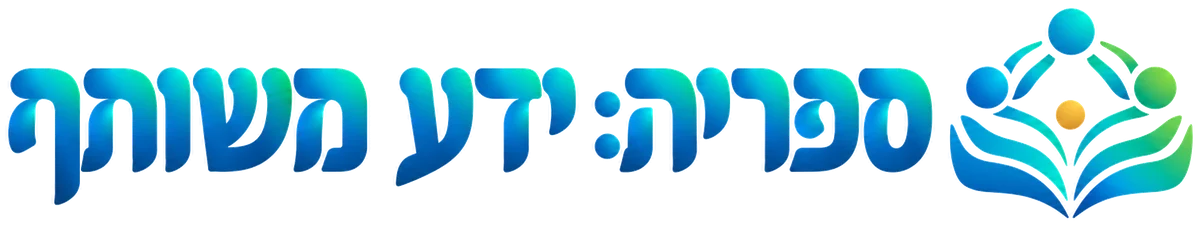
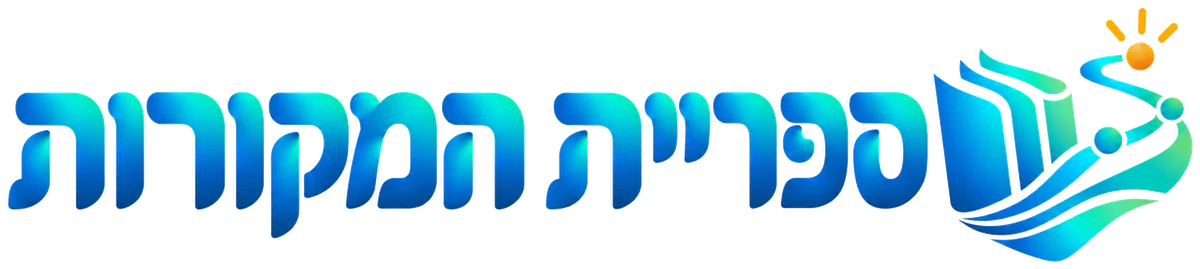
באנרים: רדאר החוסן החברתי, ובאנר חדש לספריית המקורות
Claude-Session: https://claude.ai/code/session_01BDkU3fcpFAuS2oMJj2n668

diff --git a/app/hl-radar.html b/app/hl-radar.html
@@ -245,7 +245,7 @@ table.mx td.el .small{font-weight:400}
 <header class="top">
   <div>
     <div class="brand">Begood · מעבדת האופק</div>
-    <h1>רדאר החוסן החברתי</h1>
+    <h1 class="hero-banner"><img src="assets/hl-radar-banner.webp" alt="רדאר החוסן החברתי" width="1200" height="216"></h1>
     <p class="muted">הרדאר מבוסס על ״סריקת אופק״ ו״מיפוי מניעים״ מתוך ערכת Futures Toolkit. אוספים יחד אותות קטנים לשינוי, שאנשים שמים לב אליהם בחיים, בעבודה ובחדשות. מקבצים אותם למניעי שינוי, ומחליטים מה מהם דורש פעולה עכשיו, ממה כדאי לבנות תרחישים, ואחרי מה כדאי רק לעקוב.</p>
   </div>
 </header>

diff --git a/app/sources-library.html b/app/sources-library.html
@@ -141,7 +141,7 @@ h1{font-family:"Frank Ruhl Libre",Georgia,serif;font-weight:900;font-size:clamp(
 <div class="wrap">
 
 <header>
-  <h1 class="hero-banner"><img src="assets/sources-banner.webp" alt="ספריית המקורות: ידע משותף" width="1200" height="226"></h1>
+  <h1 class="hero-banner"><img src="assets/sources-banner.webp" alt="ספריית המקורות" width="1200" height="269"></h1>
   <p class="lead">כל המקורות המאומתים שעליהם נשענת Begood, בשני מדפים. בכל מדף אפשר לחפש ולסנן.</p>
 </header>
 

diff --git a/CLAUDE.md b/CLAUDE.md
@@ -33,7 +33,7 @@
 
 ## באנרים, לוגו קבוע וניקוי תוויות מערכת (29/10/2026)
 
-- **באנר במקום כותרת:** בחשיבת צוות, תכנון שיחה, תכנון פעילות, תרגול לפי תרחיש, תקשורת שמקדמת חוסן חברתי, משוב לעבודות, פרקטי, משחקי חוסן, שתי ספריות התוצרים, המרחב שלי, מעבדת האופק (`horizon-banner.webp`) ושבעה מהכלים שלה (`hl-<כלי>-banner.webp`: מחולל העתידים, מעגלי העתיד, מהחזון להיום, שלושה אופקים, תמונת עתיד קבוצתית, בדיקת עמידות, קול הקהילה; ברדאר ובמשחק המצב עדיין כותרת), ספריית המחקר (`library-banner.webp`), תרגול צוותים ב-Begood together (`teams-practice-banner.webp`, ב-`org-suite/app.mjs`), סטודיו חוסן (`studio-banner.webp`), גשר בין הבית לכיתה (`bridge-banner.webp`), ספריית המקורות (`sources-banner.webp`), תיק רציפות (`continuity-banner.webp`), מרכז השגרות (`routines-banner.webp`, על רקע לבן בתוך הפתיח הכהה) ורשת החוסן החברתי (`network-banner.webp`, ברשימת המסעות ובראש מרחב העבודה; בדוח המודפס הכותרת נשארת טקסט) (`assets/*-banner.webp`, `h1.hero-banner`). **ספריית המחקר המשותפת** (`org-library.html`): בפתיח הלוגו של המרחב החינוכי ושל המרחב הארגוני זה לצד זה (`.space-logos`), כי הספרייה משותפת לשניהם; הנתיב "Begood › ספריית המחקר המשותפת" (`data-crumb` על `body`, כשהכותרת היא סיסמה ולא שם הכלי). באנר חדש: מסירים את הרקע הלבן, חותכים, ושמים ב-`h1.hero-banner` עם `alt` בשם הכלי.
+- **באנר במקום כותרת:** בחשיבת צוות, תכנון שיחה, תכנון פעילות, תרגול לפי תרחיש, תקשורת שמקדמת חוסן חברתי, משוב לעבודות, פרקטי, משחקי חוסן, שתי ספריות התוצרים, המרחב שלי, מעבדת האופק (`horizon-banner.webp`) ושבעה מהכלים שלה (`hl-<כלי>-banner.webp`: מחולל העתידים, מעגלי העתיד, מהחזון להיום, שלושה אופקים, תמונת עתיד קבוצתית, בדיקת עמידות, קול הקהילה, רדאר החוסן החברתי; במשחק המצב עדיין כותרת), ספריית המחקר (`library-banner.webp`), תרגול צוותים ב-Begood together (`teams-practice-banner.webp`, ב-`org-suite/app.mjs`), סטודיו חוסן (`studio-banner.webp`), גשר בין הבית לכיתה (`bridge-banner.webp`), ספריית המקורות (`sources-banner.webp`), תיק רציפות (`continuity-banner.webp`), מרכז השגרות (`routines-banner.webp`, על רקע לבן בתוך הפתיח הכהה) ורשת החוסן החברתי (`network-banner.webp`, ברשימת המסעות ובראש מרחב העבודה; בדוח המודפס הכותרת נשארת טקסט) (`assets/*-banner.webp`, `h1.hero-banner`). **ספריית המחקר המשותפת** (`org-library.html`): בפתיח הלוגו של המרחב החינוכי ושל המרחב הארגוני זה לצד זה (`.space-logos`), כי הספרייה משותפת לשניהם; הנתיב "Begood › ספריית המחקר המשותפת" (`data-crumb` על `body`, כשהכותרת היא סיסמה ולא שם הכלי). באנר חדש: מסירים את הרקע הלבן, חותכים, ושמים ב-`h1.hero-banner` עם `alt` בשם הכלי.
 - **סרגל עליון אחיד בכל המסכים** (29/10/2026: "האזור הזה חייב להיות זהה עיצובית בכל המסכים כולל כפתור חזרה / המרחב שלי / הנתיב של הכלי - איך הגענו לכאן"; "אי האחידות יוצרת הרגשה של אוסף כלים מקרי"): `app/lib/top-bar.js` (`#sbeTop`), נטען מ-`theme.js` בכל דף פנימי, גם בדפי המשחקים. מימין הלוגו והנתיב לפי הדרך שבה הגיעו בפועל ("המרחב שלי › מעבדת האופק › מחולל העתידים", `sbe.trail` בלשונית; הורה קבוע לכלי מעבדת האופק ולמשחקים); משמאל כפתורים נוספים מהסרגל הישן, "→ חזרה", "⌂ המרחב שלי" (בלי כניסה: "⌂ דף הבית") ו-☰ אחרון. הסרגלים הישנים (`#navBar`, `nav.topnav`, `nav.r-topnav`, `nav.studies-topnav`, `.suite-return`) מוסתרים; כפתור חזרה ישן מופעל מהחדש, כדי לשמור על ההתנהגות שלו. לא בדף הבית, ביש מה לעשות, במסמכי הסימולציה, בתעודה, בתוך מסגרת ולמשתתפים בקישור בלי קוד. דף חדש מקבל אותו לבד; `data-no-topbar` על `html` מבטל. `brandMark` הישן כבר לא נקרא.
 - **מפת הכלים מעודנת** (29/10/2026, כשהכלים רבים): ארבע שורות נהר, תחנות קטנות יותר, נהר דק, שם ארוך בשתי שורות (`wrap`), ותוויות הקבוצות רק בטלפון.
 - **מטופס הבדיקה** (29/10/2026): שם הכלי "תקשורת שמקדמת חוסן חברתי" בכל המערכת ("צריך לתקן ל- תקשורת שמקדמת חוסן חברתי בכל המערכת"); שם הכלי של Begood together הוא "תרגול צוותים" ("תרגול צוותים"); הלוגו "Begood together" הוא הלוגו של המרחב הארגוני כולו ("להחליף אותו בכל המרחב הארגוני": כרטיס המרחב בדף הבית, המרחב שלי, ה-PDF ב-`LOGO_FILE`, וספריית המחקר); באודות הפתיח פונה גם לארגונים ולקהילות והנתיב "אודות"; במעבדת האופק משפט המקור (Futures Toolkit) בתחתית הדף.
